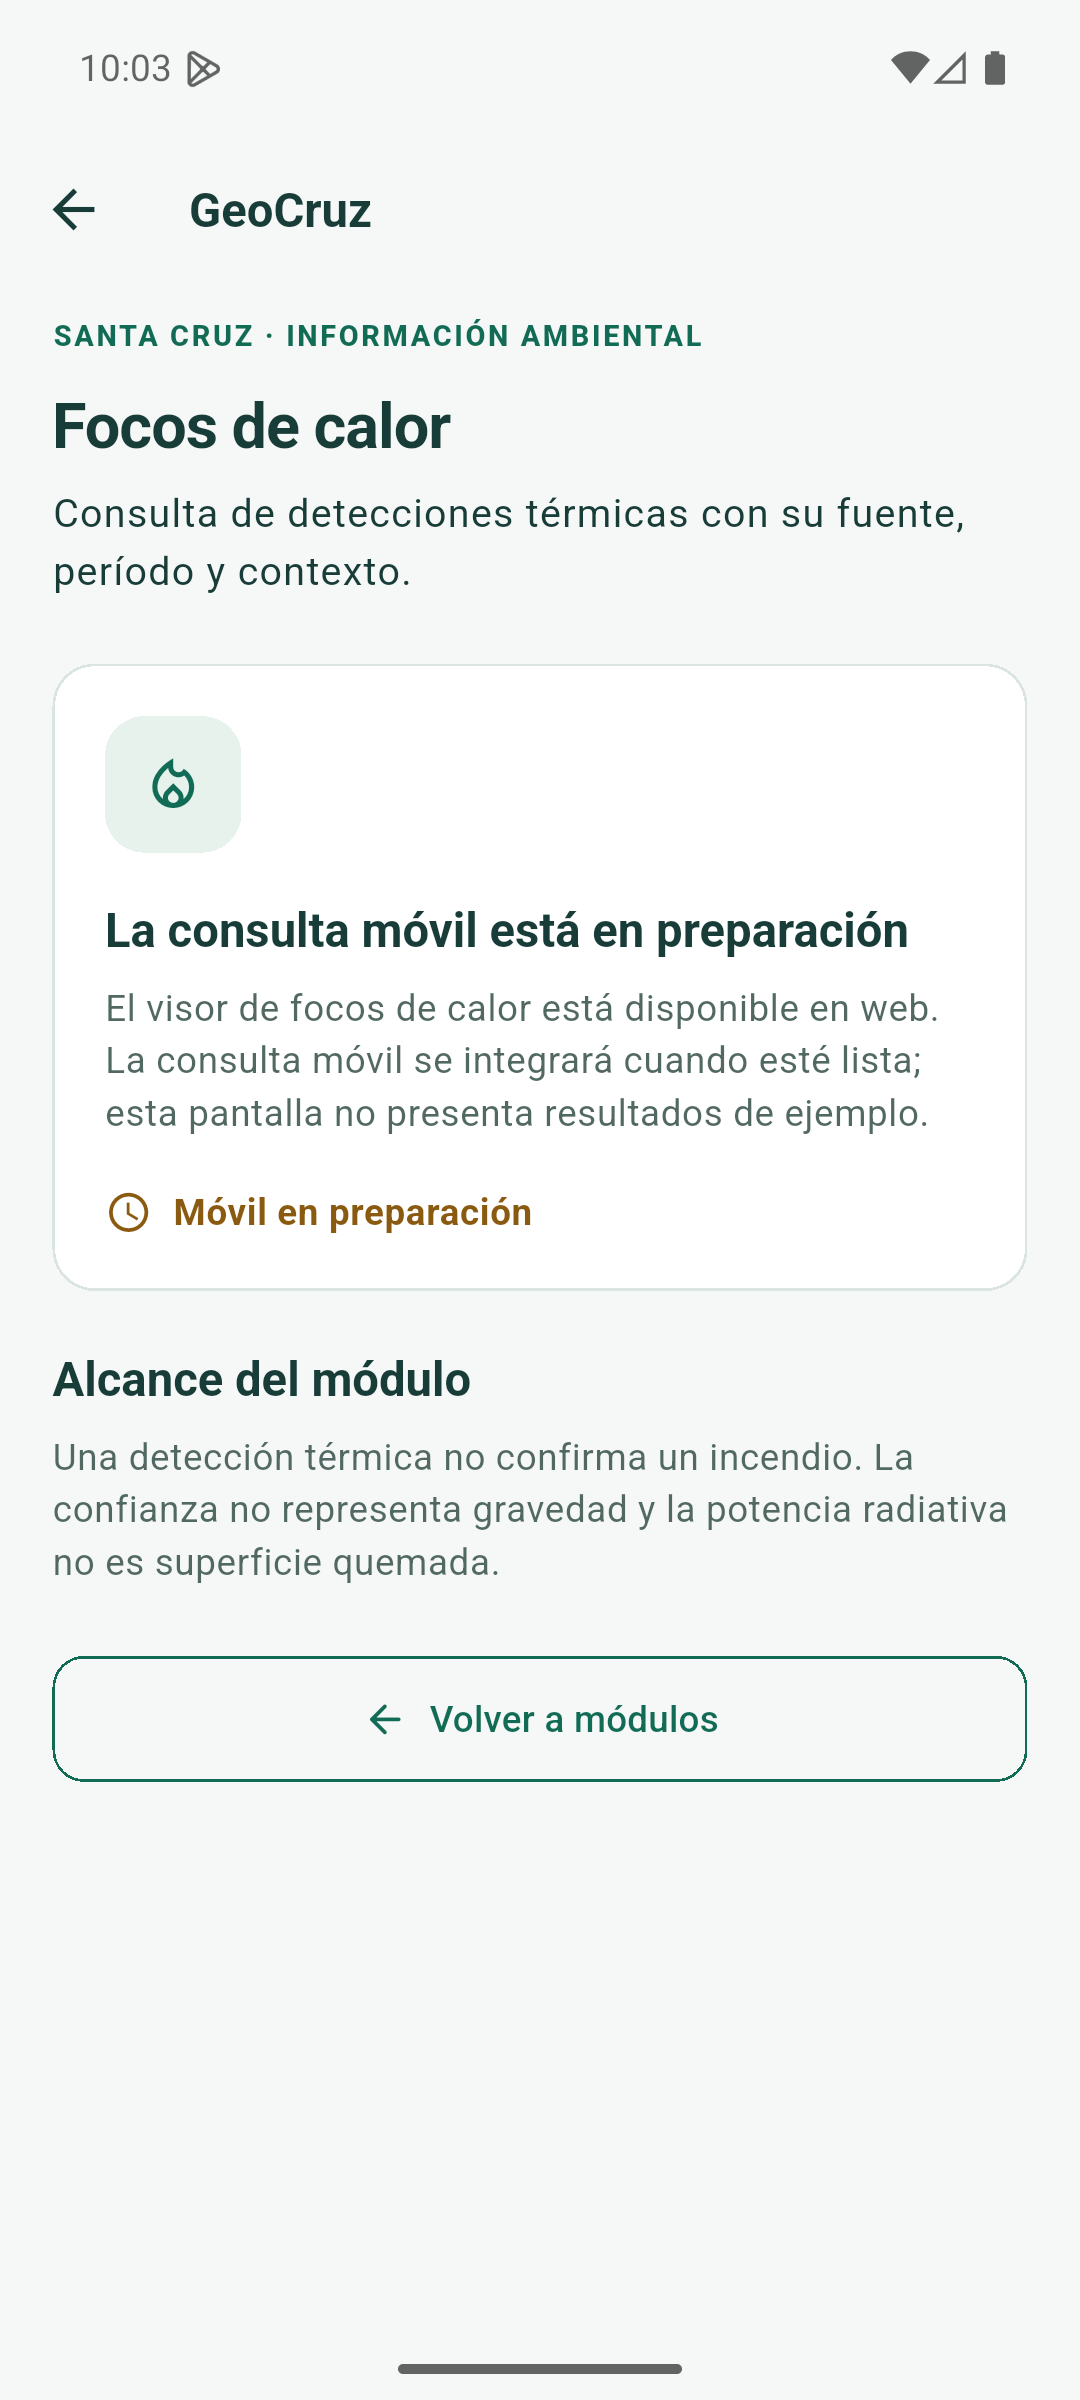
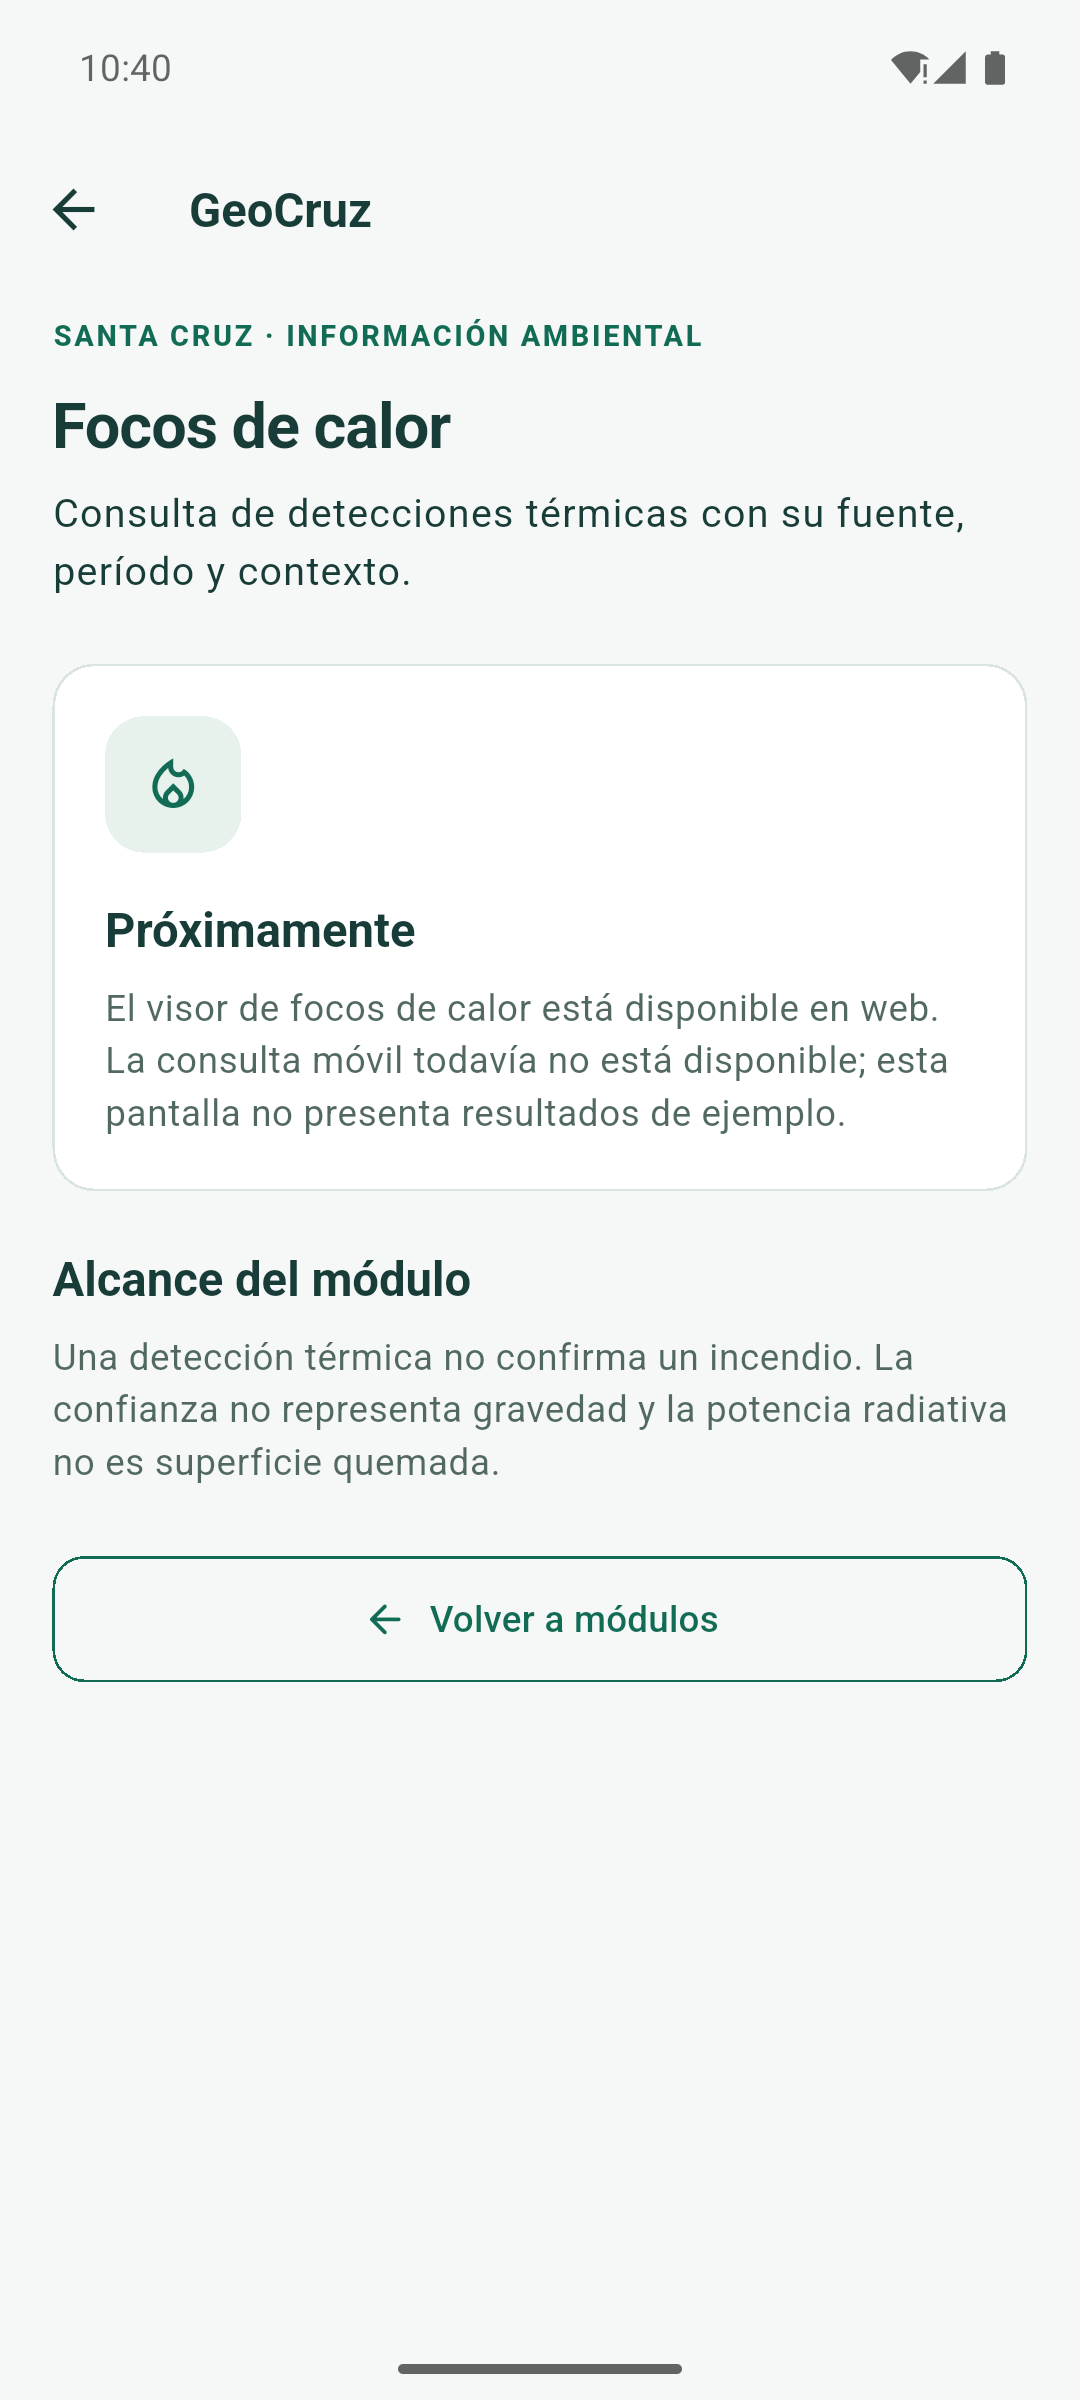
fix(movil): mostrar módulos como próximos; refs #17

diff --git a/movil/lib/features/modules/module_detail_screen.dart b/movil/lib/features/modules/module_detail_screen.dart
@@ -45,39 +45,19 @@ class ModuleDetailScreen extends StatelessWidget {
                   ),
                   const SizedBox(height: 18),
                   Text(
-                    module.availability == ModuleAvailability.mobileInProgress
-                        ? 'La consulta móvil está en preparación'
-                        : 'Este módulo está en preparación',
+                    module.statusLabel,
                     style: Theme.of(context).textTheme.titleLarge,
                   ),
                   const SizedBox(height: 8),
                   Text(
                     module.availability == ModuleAvailability.mobileInProgress
                         ? 'El visor de focos de calor está disponible en web. '
-                              'La consulta móvil se integrará cuando esté lista; '
+                              'La consulta móvil todavía no está disponible; '
                               'esta pantalla no presenta resultados de ejemplo.'
                         : 'La consulta de datos todavía no está disponible '
                               'en móvil. Este estado no significa que no haya '
                               'datos o que el fenómeno esté ausente.',
                     style: Theme.of(context).textTheme.bodyMedium,
-                  ),
-                  const SizedBox(height: 18),
-                  Row(
-                    children: [
-                      const Icon(
-                        Icons.schedule_outlined,
-                        size: 18,
-                        color: GeoCruzColors.amber,
-                      ),
-                      const SizedBox(width: 8),
-                      Text(
-                        module.statusLabel,
-                        style: const TextStyle(
-                          color: GeoCruzColors.amber,
-                          fontWeight: FontWeight.w700,
-                        ),
-                      ),
-                    ],
                   ),
                 ],
               ),

diff --git a/movil/test/widget_test.dart b/movil/test/widget_test.dart
@@ -32,7 +32,7 @@ void main() {
     });
 
     testWidgets(
-      'focos muestra el estado móvil pendiente sin simular consulta',
+      'focos muestra Próximamente sin simular una consulta',
       (tester) async {
         await tester.pumpWidget(_app());
         await tester.tap(find.text('Módulos'));
@@ -41,9 +41,10 @@ void main() {
         await tester.pumpAndSettle();
 
         expect(
-          find.text('La consulta móvil está en preparación'),
+          find.text('Próximamente'),
           findsOneWidget,
         );
+        expect(find.textContaining('Móvil en preparación'), findsNothing);
         expect(
           find.textContaining('no presenta resultados de ejemplo'),
           findsOneWidget,
@@ -66,7 +67,7 @@ void main() {
 
       expect(find.text('Santa Cruz'), findsOneWidget);
       expect(find.text(expectedPeriod), findsOneWidget);
-      expect(find.text('Consulta móvil en preparación'), findsOneWidget);
+      expect(find.text('Próximamente'), findsOneWidget);
       expect(find.text('Sin resultados para estos filtros'), findsNothing);
     });
 
@@ -127,7 +128,7 @@ void main() {
       );
 
       expect(find.text('Sin resultados para estos filtros'), findsOneWidget);
-      expect(find.text('Consulta móvil en preparación'), findsNothing);
+      expect(find.text('Próximamente'), findsNothing);
     });
   });
 }

diff --git a/movil/lib/features/home/home_screen.dart b/movil/lib/features/home/home_screen.dart
@@ -147,7 +147,7 @@ class _AvailableOnWebNotice extends StatelessWidget {
           Expanded(
             child: Text(
               'Focos de calor ya tiene una consulta web. La experiencia móvil '
-              'está en preparación; aquí no se muestran datos de ejemplo.',
+              'aún no está disponible; aquí no se muestran datos de ejemplo.',
               style: TextStyle(
                 color: GeoCruzColors.greenDark,
                 height: 1.4,

diff --git a/movil/lib/features/consultation/results_list_screen.dart b/movil/lib/features/consultation/results_list_screen.dart
@@ -156,7 +156,7 @@ class _NotIntegratedMessage extends StatelessWidget {
   Widget build(BuildContext context) {
     return const _MessageCard(
       icon: Icons.hourglass_empty_rounded,
-      title: 'Consulta móvil en preparación',
+      title: 'Próximamente',
       message:
           'Todavía no hay una consulta integrada para este módulo. '
           'Este estado no representa un resultado vacío ni falta de cobertura.',

diff --git a/movil/lib/features/modules/ambient_module.dart b/movil/lib/features/modules/ambient_module.dart
@@ -18,7 +18,7 @@ class AmbientModule {
   final ModuleAvailability availability;
 
   String get statusLabel => switch (availability) {
-    ModuleAvailability.mobileInProgress => 'Móvil en preparación',
+    ModuleAvailability.mobileInProgress => 'Próximamente',
     ModuleAvailability.comingSoon => 'Próximamente',
   };
 }

diff --git a/docs/MOV01_BASE_FLUTTER.md b/docs/MOV01_BASE_FLUTTER.md
@@ -12,9 +12,8 @@ navegación por módulos, territorio y lenguaje de la web GeoCruz. No usa imáge
 remotas o generadas.
 
 La navegación común tiene Inicio y Módulos; cada módulo abre una pantalla de
-estado. Focos de calor se indica como trabajo móvil en preparación porque la
-consulta ya existe en web, pero aún corresponde a MOV-02 en Flutter. Sequías,
-Inundaciones, Deforestación y Calidad del aire se muestran como próximos. No se
+estado. Los cinco módulos móviles se muestran como próximos. Focos de calor ya
+existe en web, pero su consulta en Flutter corresponde a MOV-02. No se
 presentan registros ambientales ficticios ni se interpreta la falta de consulta
 móvil como resultado vacío o falta de cobertura.
 
@@ -51,7 +50,7 @@ de focos de calor queda para MOV-02.
 | Aplicación Flutter bajo `movil/`, dependencias reproducibles y pasos de ejecución | Implementado; `pubspec.lock` y `movil/README.md` incluidos. |
 | Navegación según el diseño de GeoCruz; conservar territorio, período e ID lista→detalle | Implementado; plantillas y prueba de widget. Revisión de diseño por Josué pendiente. |
 | Cliente HTTP y URL configurable, sin claves de proveedor en Flutter | Implementado; integración con datos reales pendiente de MOV-02. |
-| Mostrar módulos futuros sin simular implementación ni reemplazar datos | Implementado; los cuatro módulos y la consulta móvil de focos se identifican como pendientes. |
+| Mostrar módulos futuros sin simular implementación ni reemplazar datos | Implementado; los cinco módulos muestran “Próximamente” y no se presentan datos ficticios. |
 | Ejecución real, pruebas iniciales y evidencia | Registrado arriba y capturado en `docs/evidencias/mov01/`. |
 | Pull request a `develop` revisado por Josué | La revisión humana no se presume; requiere PR y aprobación explícita del compañero. |
 
